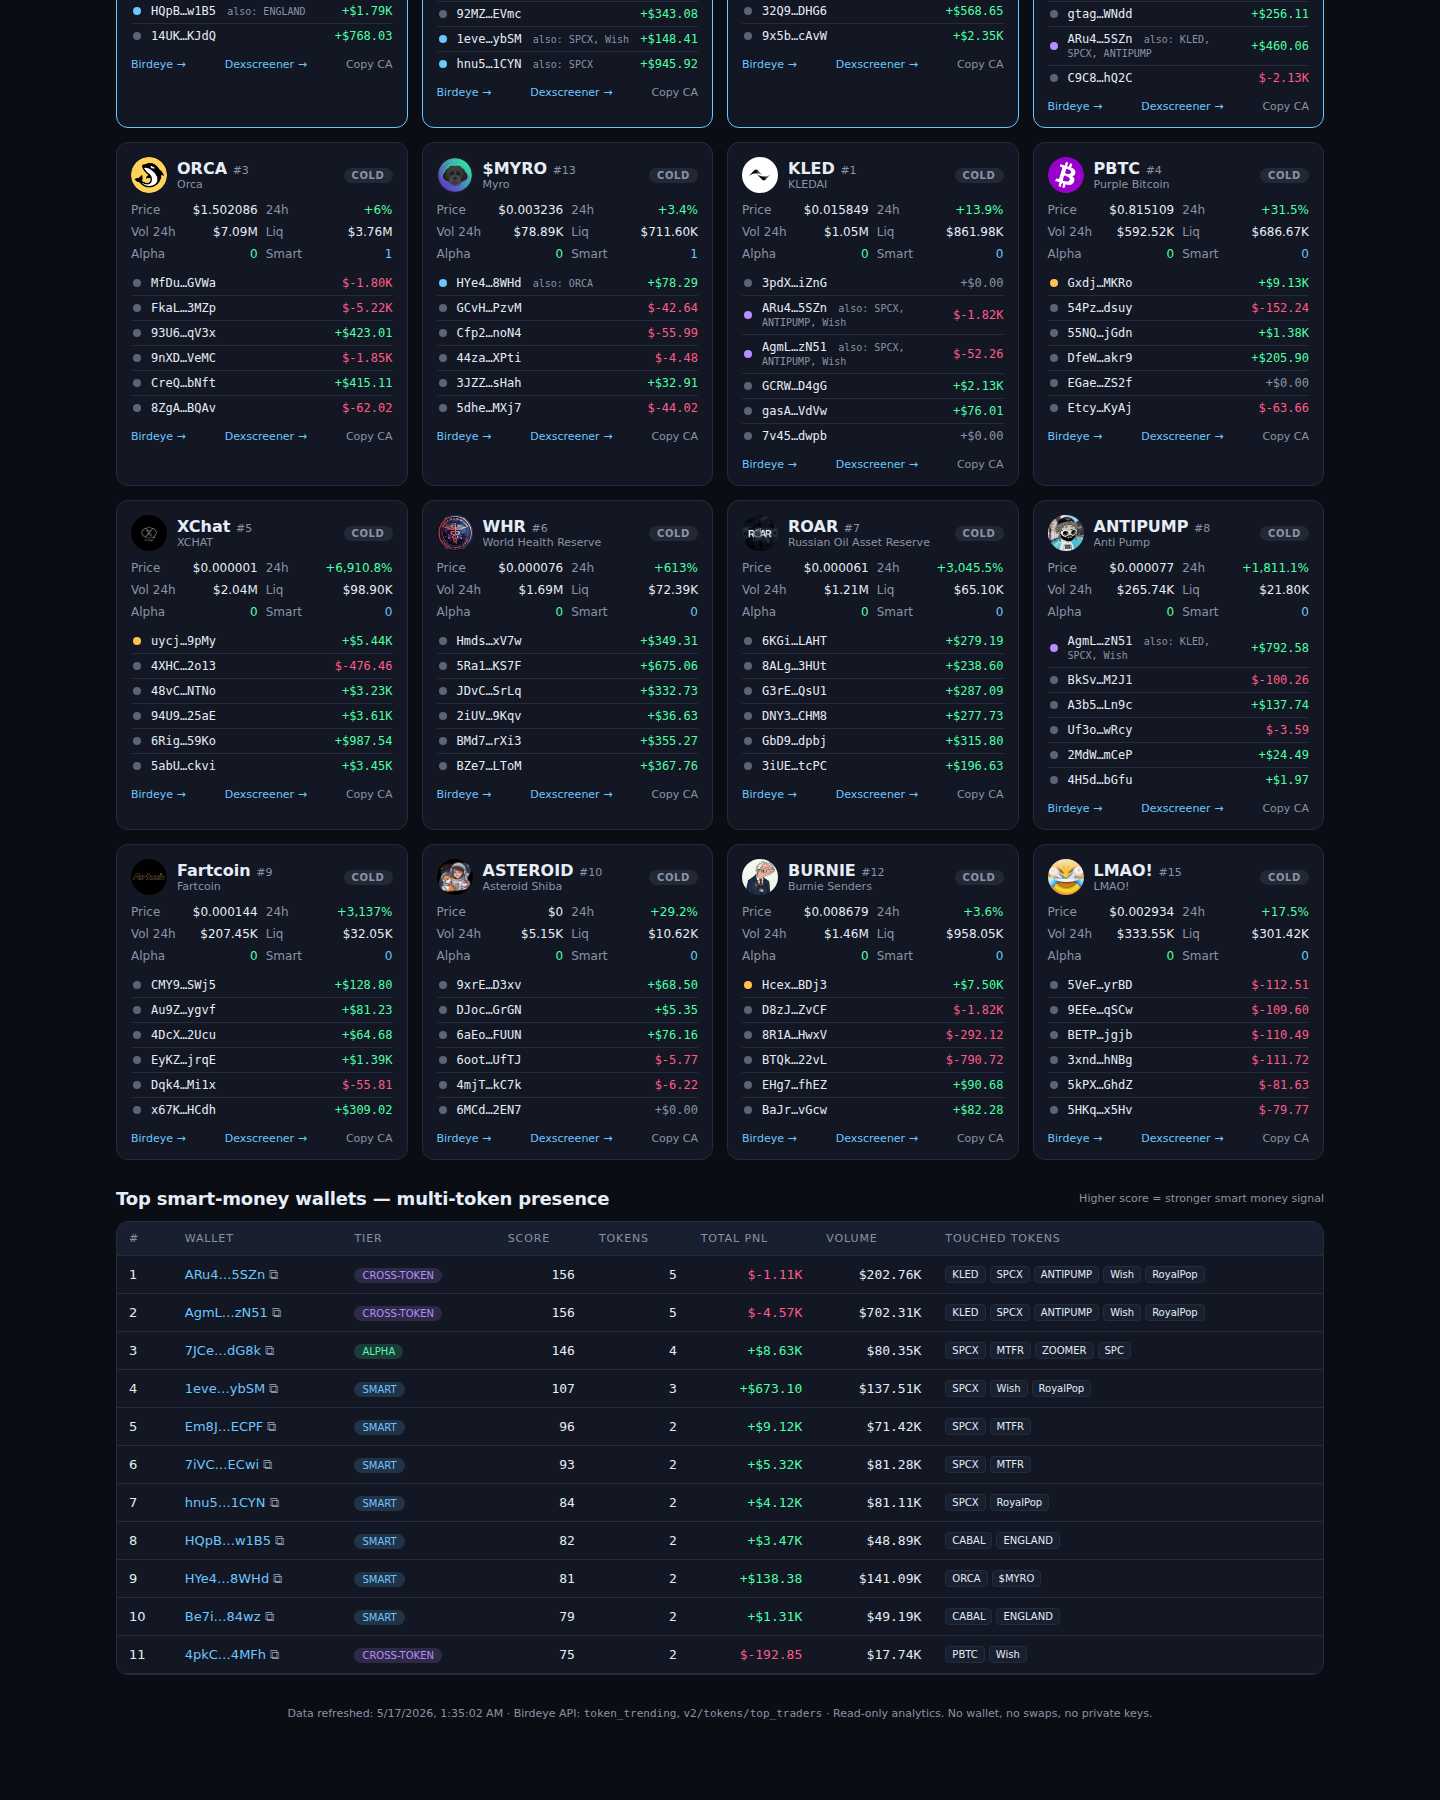
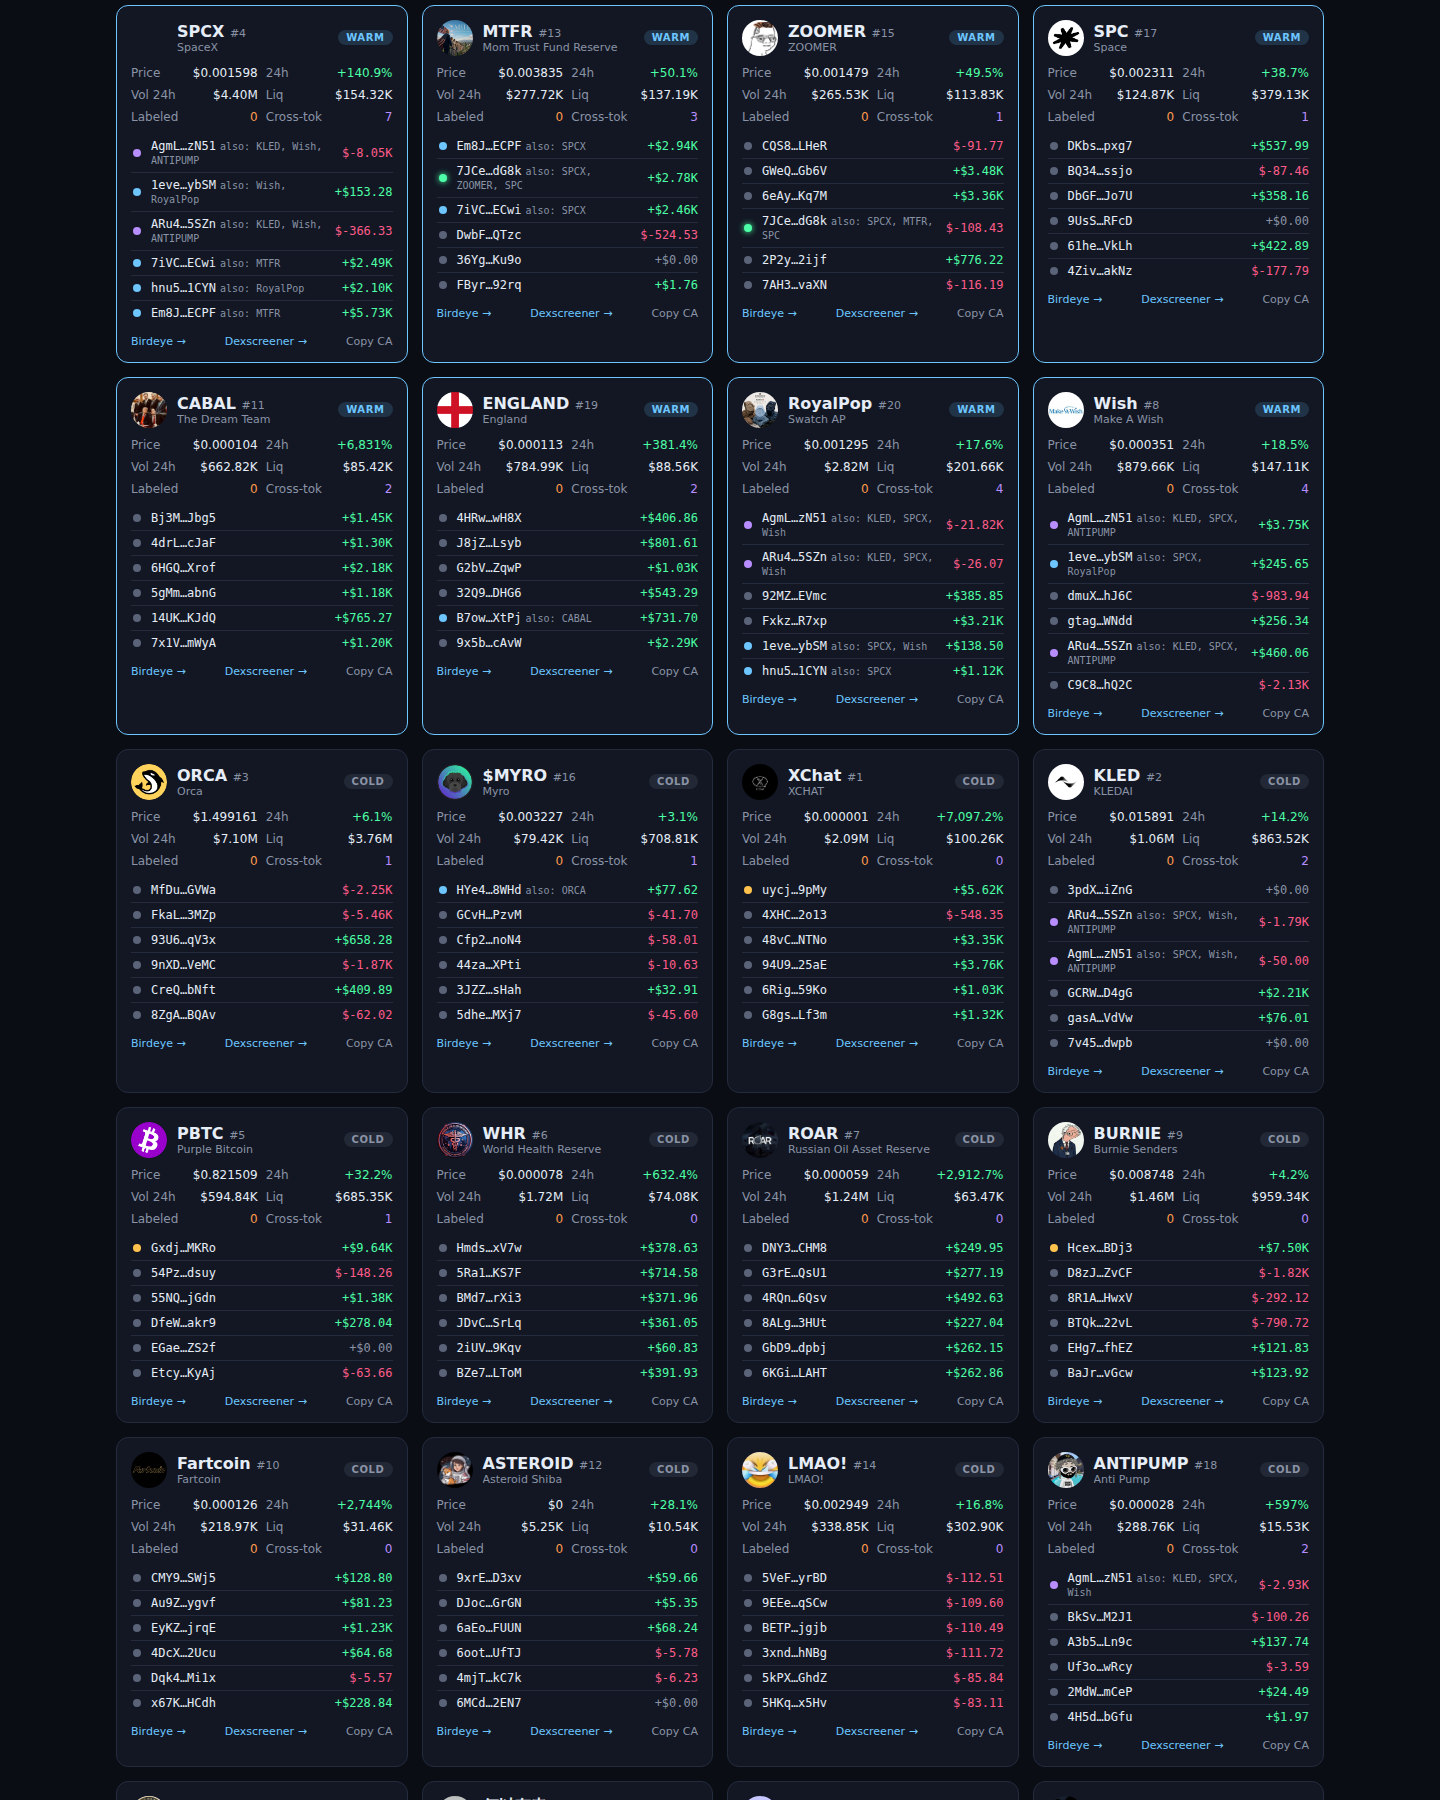
UX: better KOL convergence stats + clearer legend

diff --git a/public/index.html b/public/index.html
@@ -215,7 +215,7 @@
 
   <div class="section-title" id="kol-section" style="display:none">
     <h2>🎯 KOL Convergence — labeled wallets buying NOW</h2>
-    <div class="legend">2+ KOLs hitting same token in last 48h</div>
+    <div class="legend">2+ KOL buyers, OR single KOL buy &gt; $5K · last 48h</div>
   </div>
   <div class="grid" id="kol-grid" style="display:none"></div>
 
@@ -343,16 +343,16 @@ function renderKolConvergence() {
 
 function renderSummary() {
   const s = DATA.summary;
+  const k = DATA.kolConvergence || {};
   document.getElementById('db-size').textContent = (s.labelDbSize || 0).toLocaleString();
   const cards = [
-    { label: 'Tokens scanned', val: s.totalTokensScanned, cls: '' },
-    { label: 'Total wallets', val: fmt(s.totalWallets, 0), cls: 'info' },
-    { label: 'Labeled hits', val: s.labeledTraders || 0, cls: 'warn' },
-    { label: 'KOL hits', val: s.kolHits || 0, cls: 'warn' },
-    { label: 'Whale hits', val: s.whaleHits || 0, cls: 'warn' },
-    { label: 'Multi-token wallets', val: s.multiTokenWallets, cls: 'info' },
+    { label: 'KOLs tracked', val: k.kolCount || 0, cls: 'warn' },
+    { label: 'KOL trades scanned', val: k.totalTrades || 0, cls: 'warn' },
+    { label: 'Converged tokens', val: k.convergedTokens || 0, cls: 'accent' },
+    { label: 'Trending tokens', val: s.totalTokensScanned, cls: '' },
+    { label: 'Cross-token wallets', val: s.multiTokenWallets, cls: 'info' },
     { label: 'Alpha wallets', val: s.alphaWallets, cls: 'accent' },
-    { label: 'Hot tokens', val: s.hotTokens, cls: 'warn' },
+    { label: 'Label DB size', val: s.labelDbSize || 0, cls: 'info' },
     { label: 'Smart-money PnL', val: fmtUsd(s.totalSmartPnl), cls: 'accent' }
   ];
   document.getElementById('summary').innerHTML = cards.map(c =>